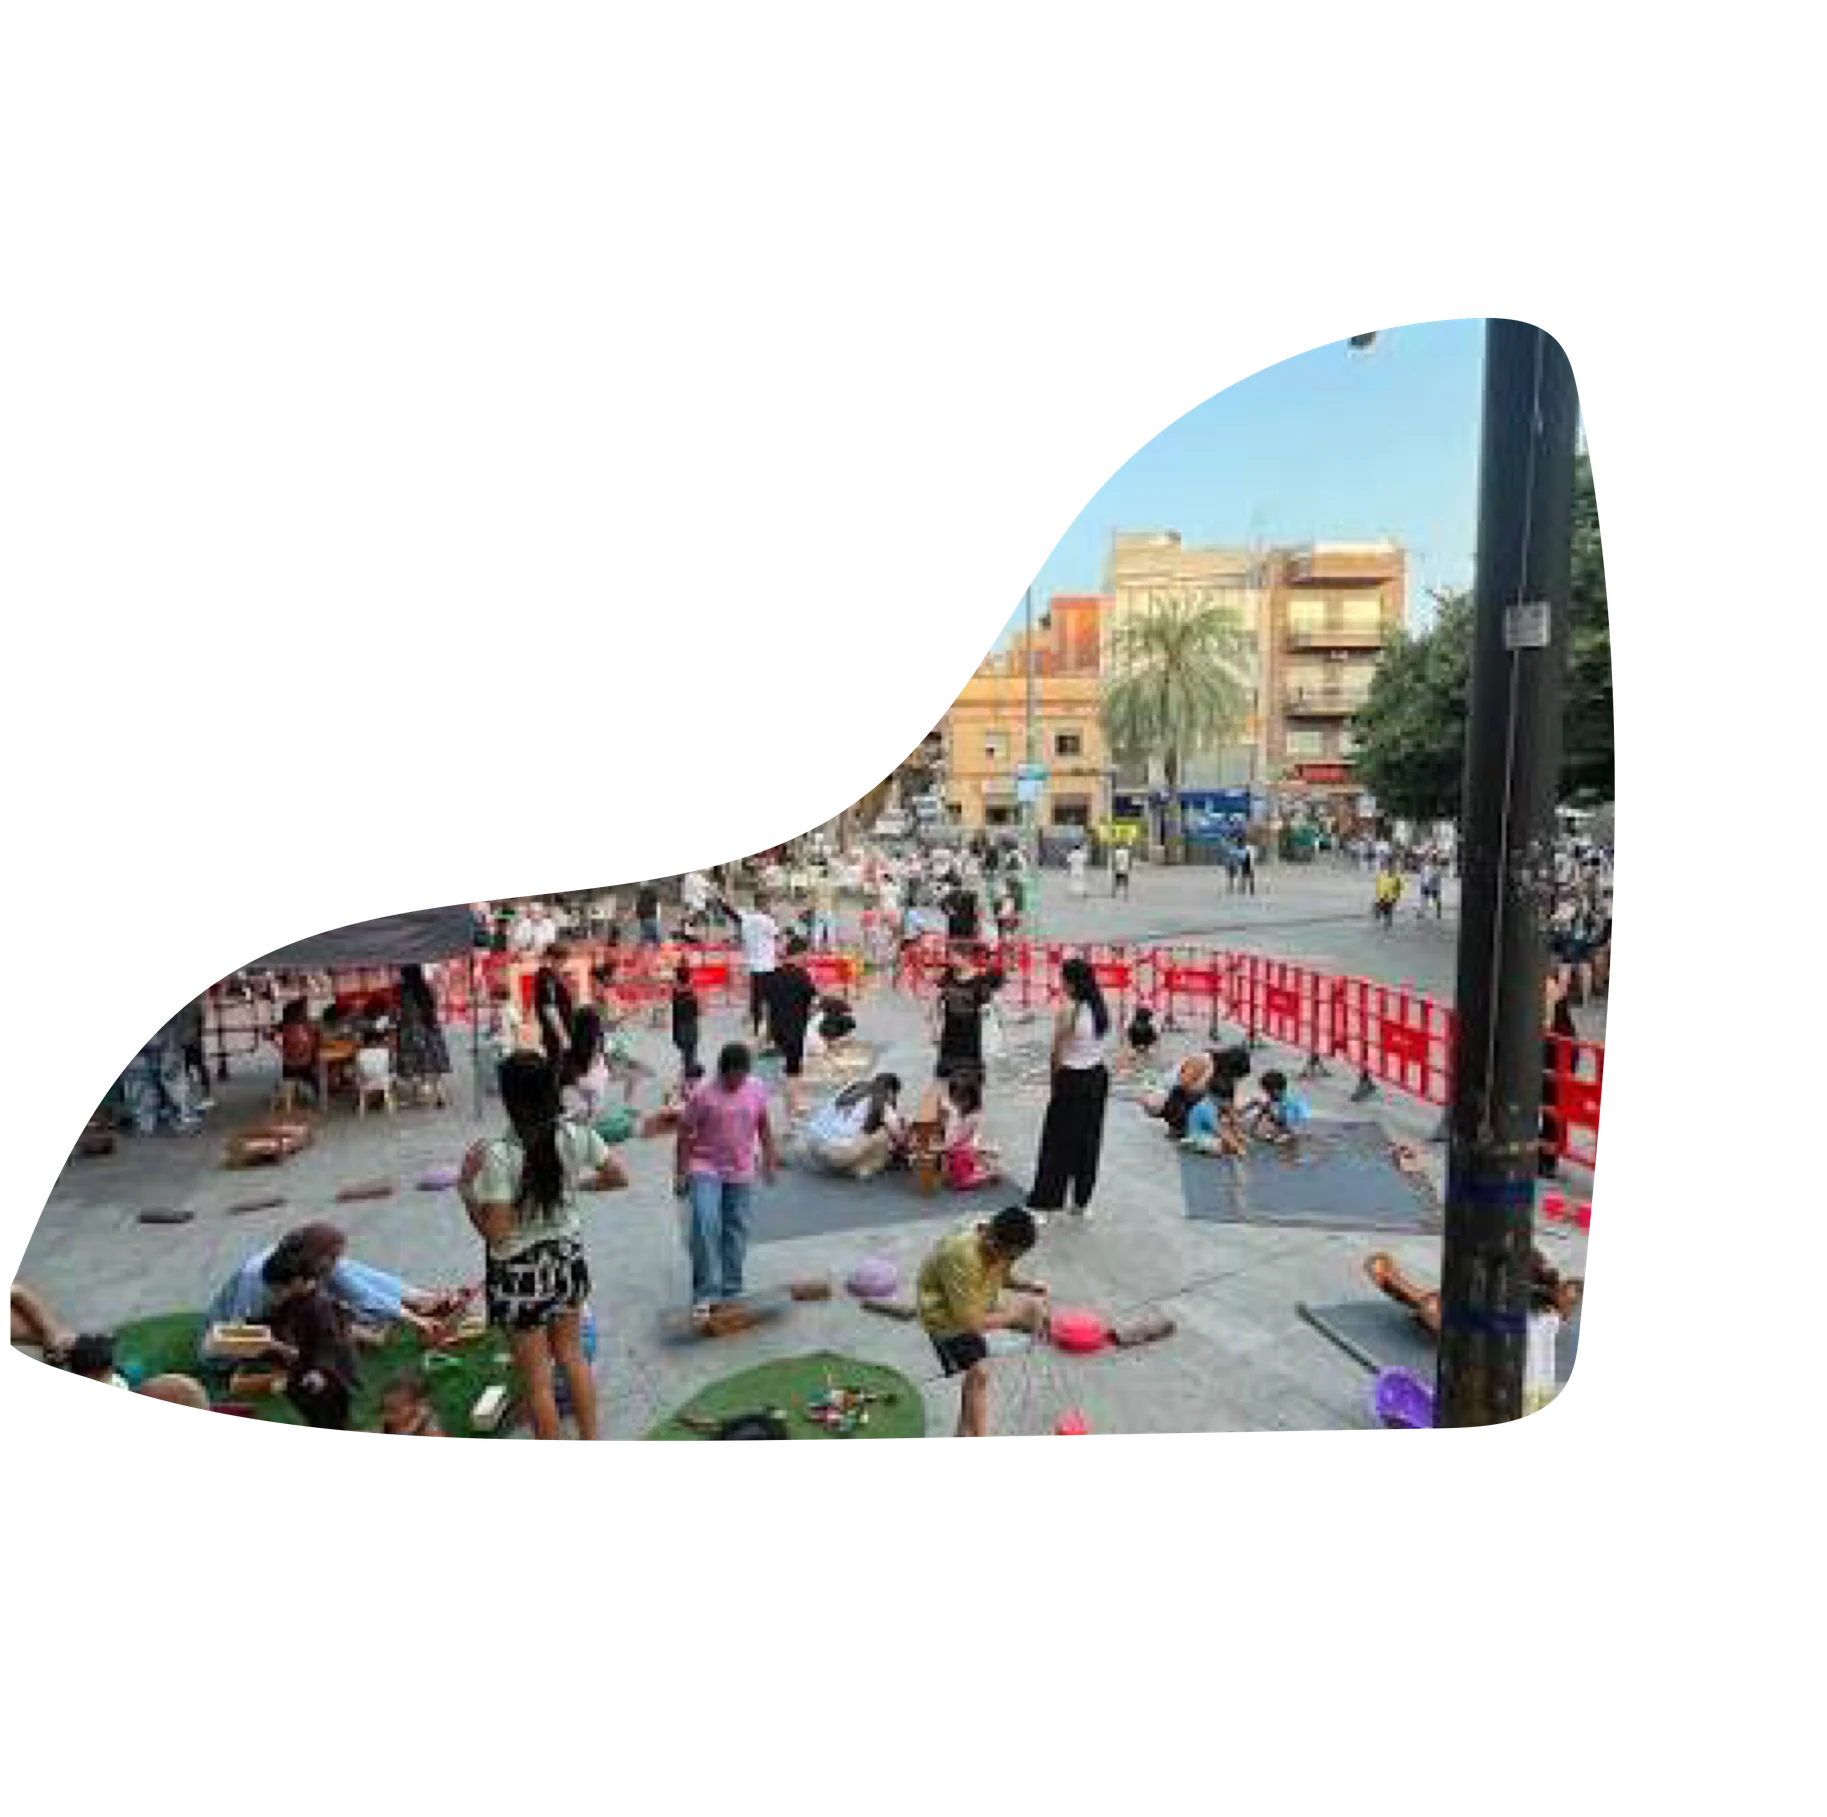
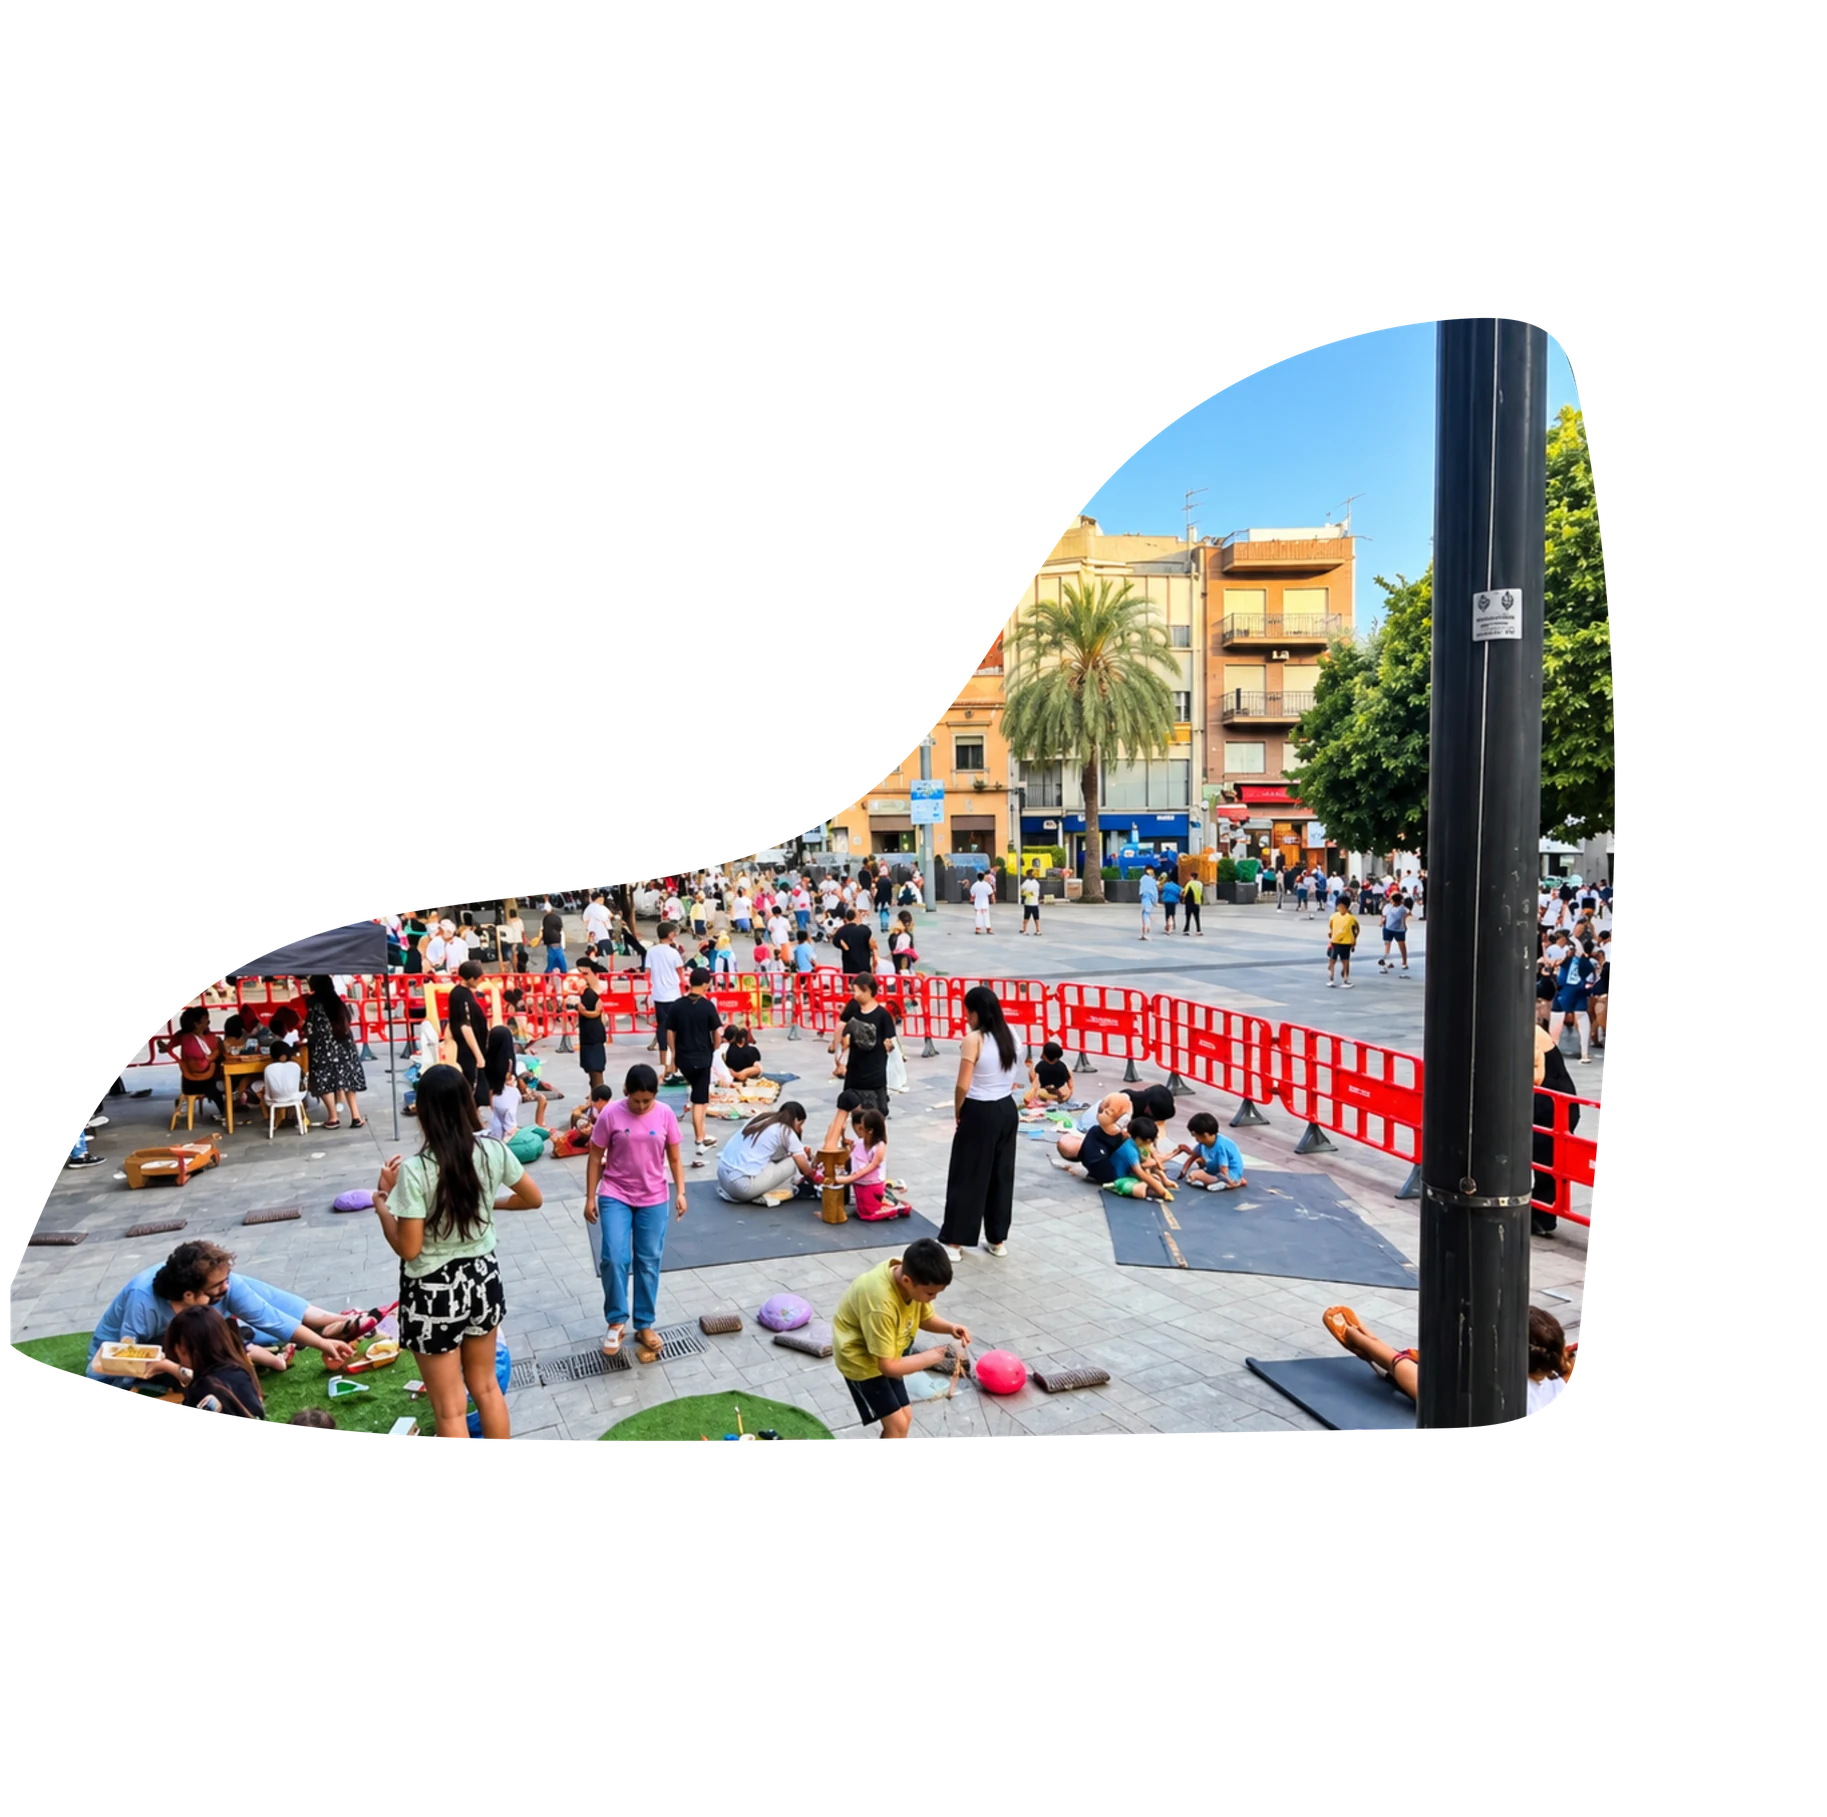
Foto de la plaça del Rellotge actualitzada (image27) i carpeta fotos_actualizadas

Changed region(s): [[0.0, 0.1541, 0.9048, 0.8013]]

diff --git a/tools/build_assets.py b/tools/build_assets.py
@@ -410,7 +410,10 @@ def slide_link(deck, n, cnvpr):
 
 def bake_picture(deck, n, idx, media_path, xf, shadow):
     """Retalla/escala la imatge a la mida final i hi aplica l'ombra de la presentació."""
-    img = Image.open(deck.z.open(media_path)).convert('RGBA')
+    # Fotos actualitzades: fotos_actualizadas/<mateix nom que dins del PowerPoint> té prioritat
+    over = os.path.join(ROOT, 'fotos_actualizadas', posixpath.basename(media_path))
+    src = over if os.path.exists(over) else deck.z.open(media_path)
+    img = Image.open(src).convert('RGBA')
     w, h = max(1, round(xf['w'] / EMU)), max(1, round(xf['h'] / EMU))
     img = img.resize((w, h), Image.LANCZOS)
     if xf['flipH']:
